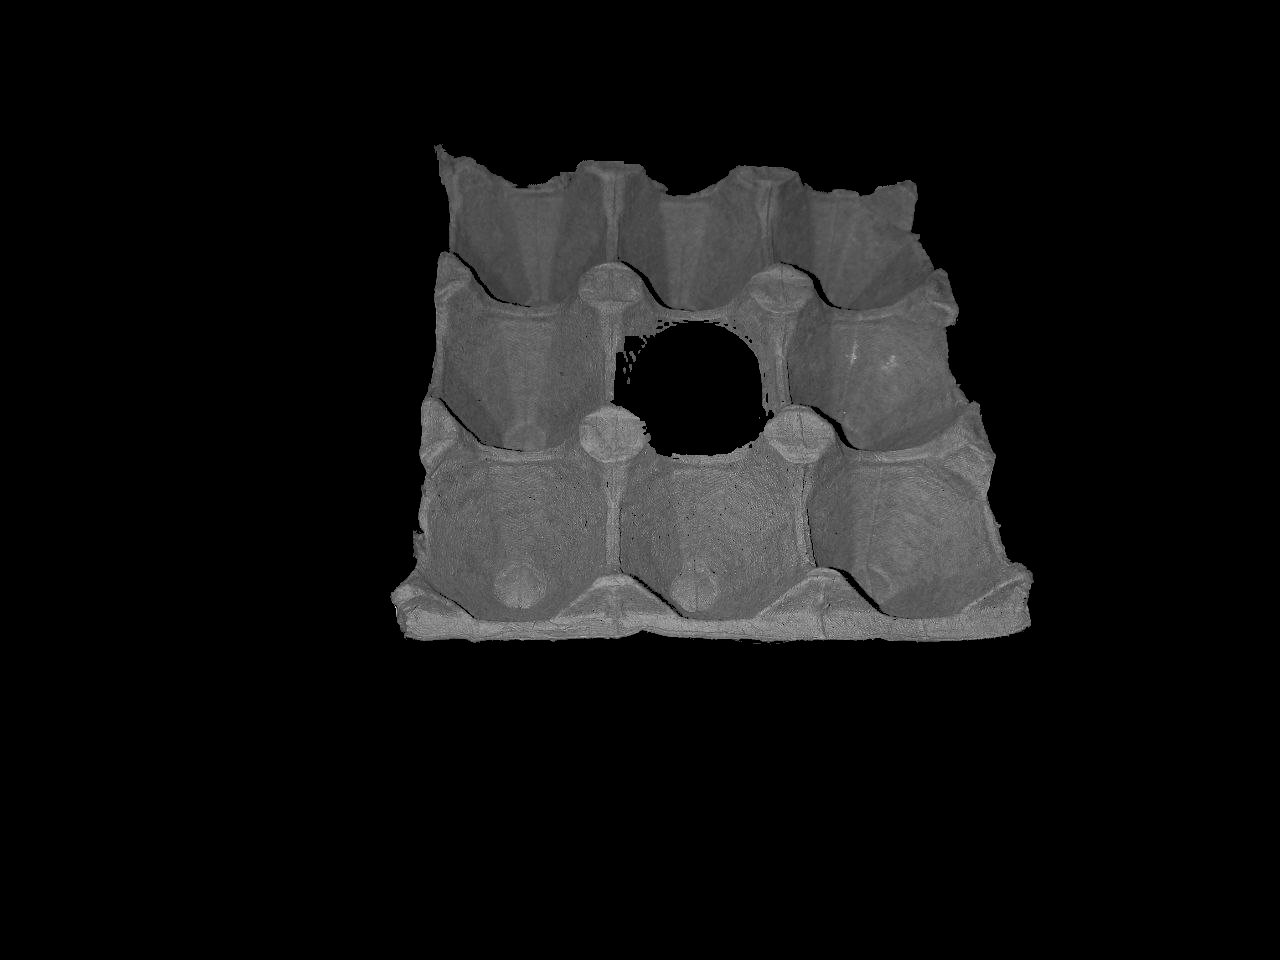
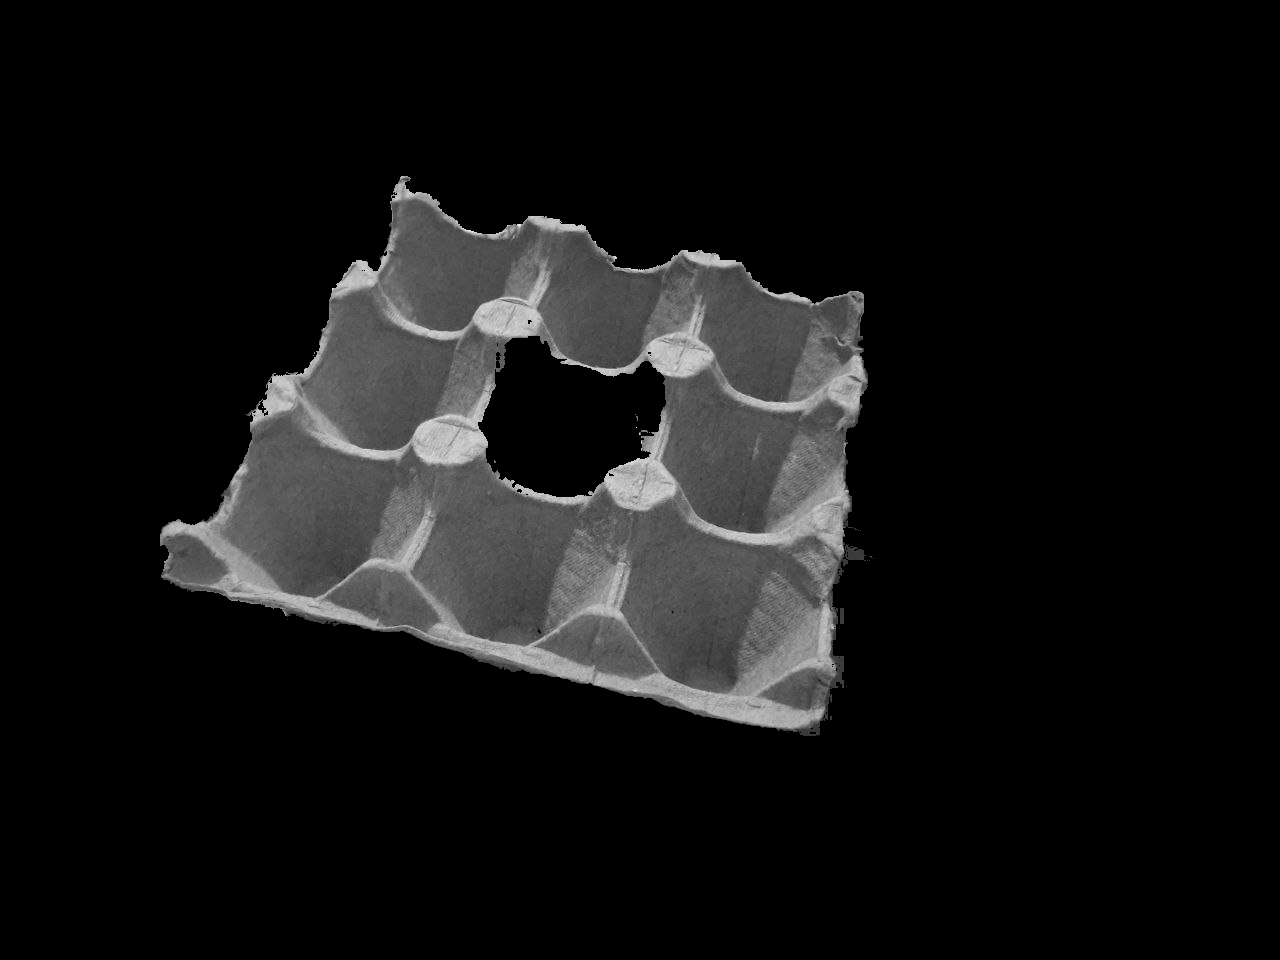
[dev] CV: grid box and sift/orb experiment

Changed region(s): [[0.125, 0.1562, 0.8125, 0.7812]]

diff --git a/cv/utils.py b/cv/utils.py
@@ -4,6 +4,126 @@ from shapely.geometry import Polygon
 from itertools import combinations
 
 
+#file_name = sys.argv[1]
+#image = cv2.imread(file_name)
+#add_image("Original", image)
+#image = image[:,:,2]
+#
+#file_name = sys.argv[2]
+#other_image = cv2.imread(file_name)
+#add_image("Other", other_image)
+#other_image = other_image[:,:,2]
+#
+##sift = cv2.SIFT_create()
+##kp, desc = sift.detectAndCompute(image, None)
+##kp_o, desc_o = sift.detectAndCompute(other_image, None)
+#
+#orb = cv2.ORB_create()
+#kp, desc = orb.detectAndCompute(image, None)
+#kp_o, desc_o = orb.detectAndCompute(other_image, None)
+#
+#matcher = cv2.BFMatcher()
+#matches = matcher.match(desc, desc_o)
+#final = cv2.drawMatches(image, kp, other_image, kp_o, matches, None)
+#
+#add_image("Final", final)
+#render_images()
+
+#FLANN_INDEX_LSH = 6
+#index_params = dict(algorithm=FLANN_INDEX_LSH,
+#                    table_number=6,
+#                    key_size=12,
+#                    multi_probe_level=1)
+#search_params = dict(checks=50)
+
+#matcher = cv2.FlannBasedMatcher(index_params, search_params)
+def get_descriptors_matches(descriptors_1, descriptors_2):
+    matcher = cv2.BFMatcher(cv2.NORM_L2, crossCheck=False)
+    matches = matcher.knnMatch(
+            descriptors_1, 
+            descriptors_2,
+            k=2
+    )
+
+    ratio_thresh = 0.75
+
+    good_matches = []
+    matches = [t for t in matches if len(t) == 2]
+    for m,n in matches:
+        if m.distance < ratio_thresh * n.distance:
+            good_matches.append(m)
+    
+    if len(good_matches) < 4:
+        raise ValueError("Not enough matches")
+
+    return good_matches
+
+
+def get_artifact_area_mask(image, template_grid, template_mask):
+    gray_image = cv2.cvtColor(image, cv2.COLOR_BGR2GRAY)
+    template_grid = cv2.cvtColor(template_grid, cv2.COLOR_BGR2GRAY)
+    template_mask = cv2.cvtColor(template_mask, cv2.COLOR_BGR2GRAY)
+
+    sift = cv2.SIFT_create()
+    template_kp, template_descriptors = sift.detectAndCompute(template_grid, None)              
+    image_kp, image_descriptors = sift.detectAndCompute(gray_image, None)
+
+    matches = get_descriptors_matches(template_descriptors, image_descriptors)
+
+    template_points = np.empty((len(matches),2), dtype=np.float32)
+    image_point = np.empty((len(matches),2), dtype=np.float32)
+    for i in range(len(matches)):
+        template_points[i,0] = template_kp[matches[i].queryIdx].pt[0]
+        template_points[i,1] = template_kp[matches[i].queryIdx].pt[1]
+        image_point[i,0] = image_kp[matches[i].trainIdx].pt[0]
+        image_point[i,1] = image_kp[matches[i].trainIdx].pt[1]
+
+    H, _ =  cv2.findHomography(template_points, image_point, cv2.RANSAC)
+    if H is None:
+        raise ValueError("The holography function is compromised!")
+    #h, w = gray_image.shape
+    #return cv2.warpPerspective(template_mask, H, (w,h))
+    img_matches = np.empty(
+        (max(template_grid.shape[0], image.shape[0]), template_grid.shape[1]+image.shape[1], 3),
+
+        dtype=np.uint8
+    )
+    cv2.drawMatches(
+        template_grid,  # The gray template
+        template_kp,      # The template's KEYPOINTS
+        gray_image,       # The gray image (for consistency)
+        image_kp,         # The image's KEYPOINTS
+        matches,          # The list of good DMatch objects
+        img_matches,      # The output image
+        flags=cv2.DrawMatchesFlags_NOT_DRAW_SINGLE_POINTS
+    )
+    return img_matches
+
+
+#def get_artifact_area_mask(image, template_grid, template_mask):
+#    gray_image = cv2.cvtColor(image, cv2.COLOR_BGR2GRAY)
+#
+#    orb = cv2.ORB_create()
+#    sift = cv2.SIFT_create()
+#    template_kp, template_descriptors = sift.detectAndCompute(template_grid, None)
+#    image_kp, image_descriptors = sift.detectAndCompute(gray_image, None)
+#
+#    matches = get_descriptors_matches(template_descriptors, image_descriptors)
+#
+#    template_points = np.empty((len(matches),2), dtype=np.float32)
+#    image_point = np.empty((len(matches),2), dtype=np.float32)
+#    for i in range(len(matches)):
+#        template_points[i,0] = template_kp[matches[i].queryIdx].pt[0]
+#        template_points[i,1] = template_kp[matches[i].queryIdx].pt[1]
+#        image_point[i,0] = image_kp[matches[i].trainIdx].pt[0]
+#        image_point[i,1] = image_kp[matches[i].trainIdx].pt[1]
+#
+#    H, _ =  cv2.findHomography(template_points, image_point, cv2.RANSAC)
+#    if H is None:
+#        raise ValueError("The holography function is compromised!")
+#    h, w = gray_image.shape
+#    return cv2.warpPerspective(template_mask, H, (w,h))
+
 def get_ball_mask(hsv_image):
     lower_ball = (135, 50, 136)
     upper_ball = (179, 220, 255)
@@ -19,7 +139,11 @@ def get_grid_mask(hsv_image):
 def get_max_contour_mask(contours, image_2d_shape):
     contour = get_contour_with_max_area(contours)
     mask = np.zeros(image_2d_shape, dtype=np.uint8)
-    cv2.drawContours(mask, [contour], -1, (255), -1)
+    #cv2.drawContours(mask, [contour], -1, (255), -1)
+    rect = cv2.minAreaRect(contour)
+    box = cv2.boxPoints(rect)
+    box = np.intp(box)
+    cv2.drawContours(mask, [box], -1, (255), -1)
     return mask
 
 
@@ -125,7 +249,6 @@ def get_ordered_centroids_infos(centroids):
         key=lambda c: c.get('dist_to_origin')
     )
 
-    print("centroids", centroids)
     centroid_1_horizontal = centroids_with_infos[1].get('coord')[1]
     centroid_2_horizontal = centroids_with_infos[2].get('coord')[1]
 
@@ -389,7 +512,6 @@ def draw_grid_areas(input_image, clusters):
 def get_max_area_contour_centroid(contours):
     max_area_contour = max(contours, key=lambda c: cv2.contourArea(c))
     moment = cv2.moments(max_area_contour)
-    print(moment)
     x = int(moment['m10']/moment['m00'])
     y = int(moment['m01']/moment['m00'])
     return (x, y)

diff --git a/cv/image_treatment.py b/cv/image_treatment.py
@@ -21,10 +21,14 @@ def render_images():
         cv2.destroyAllWindows()
 
 
-file_name = sys.argv[1]
+image, template_grid, template_mask = [
+        cv2.imread(file_name)
+        for file_name in sys.argv[1:4]
+    ]
 
-image = cv2.imread(file_name)
 add_image("Original", image)
+add_image("Template Grid", template_grid)
+add_image("Template Mask", template_mask)
 
 hsv_image = cv2.cvtColor(image, cv2.COLOR_BGR2HSV)
 
@@ -35,6 +39,21 @@ try:
         raise RuntimeError(f"No grid mask found!")
     else:
         add_image("Grid's Mask", grid_mask)
+
+    try:
+        img = apply_mask(image, grid_mask)
+    except Exception as e: 
+        raise RuntimeError(f"Grid segmentation mask failed!")
+    else:
+        add_image("Grid segmentation", grid_mask)
+
+
+    try:
+        transformed_mask = get_artifact_area_mask(image, template_grid, template_mask)
+    except Exception as e: 
+        raise RuntimeError(f"Error in getting the artifact's mask!")
+    else:
+        add_image("Artifact Mask", transformed_mask)
 
 
     try:

diff --git a/cv/artifact_template.py b/cv/artifact_template.py
@@ -76,7 +76,7 @@ try:
         cv2.imwrite(gray_path, gray)
         cv2.imwrite(mask_path, mask)
     else: 
-        raise OSError(f"Something went wrong with writing in {mask_path} or {mask_path}.")
+        raise OSError(f"Something went wrong with writing in {mask_path} or {gray_path}.")
 
 
 finally:
